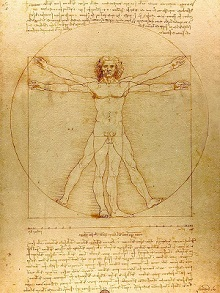
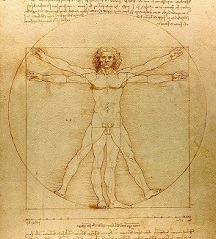
delete title-img

diff --git a/index.html b/index.html
@@ -46,7 +46,7 @@
                 <div class="title-page-img">
                     <img src="img/Leonardo-da-Vinci-1-768x432.jpg" alt="title-image">
                 </div>
-                <img class="title-img" src="img/Leonardo_da_Vinci_Vituvian.jpg" alt="">
+
                 <div class="user-access">
                     <form class="user-account">
                         <div class="user-account-name">Вход</div>
